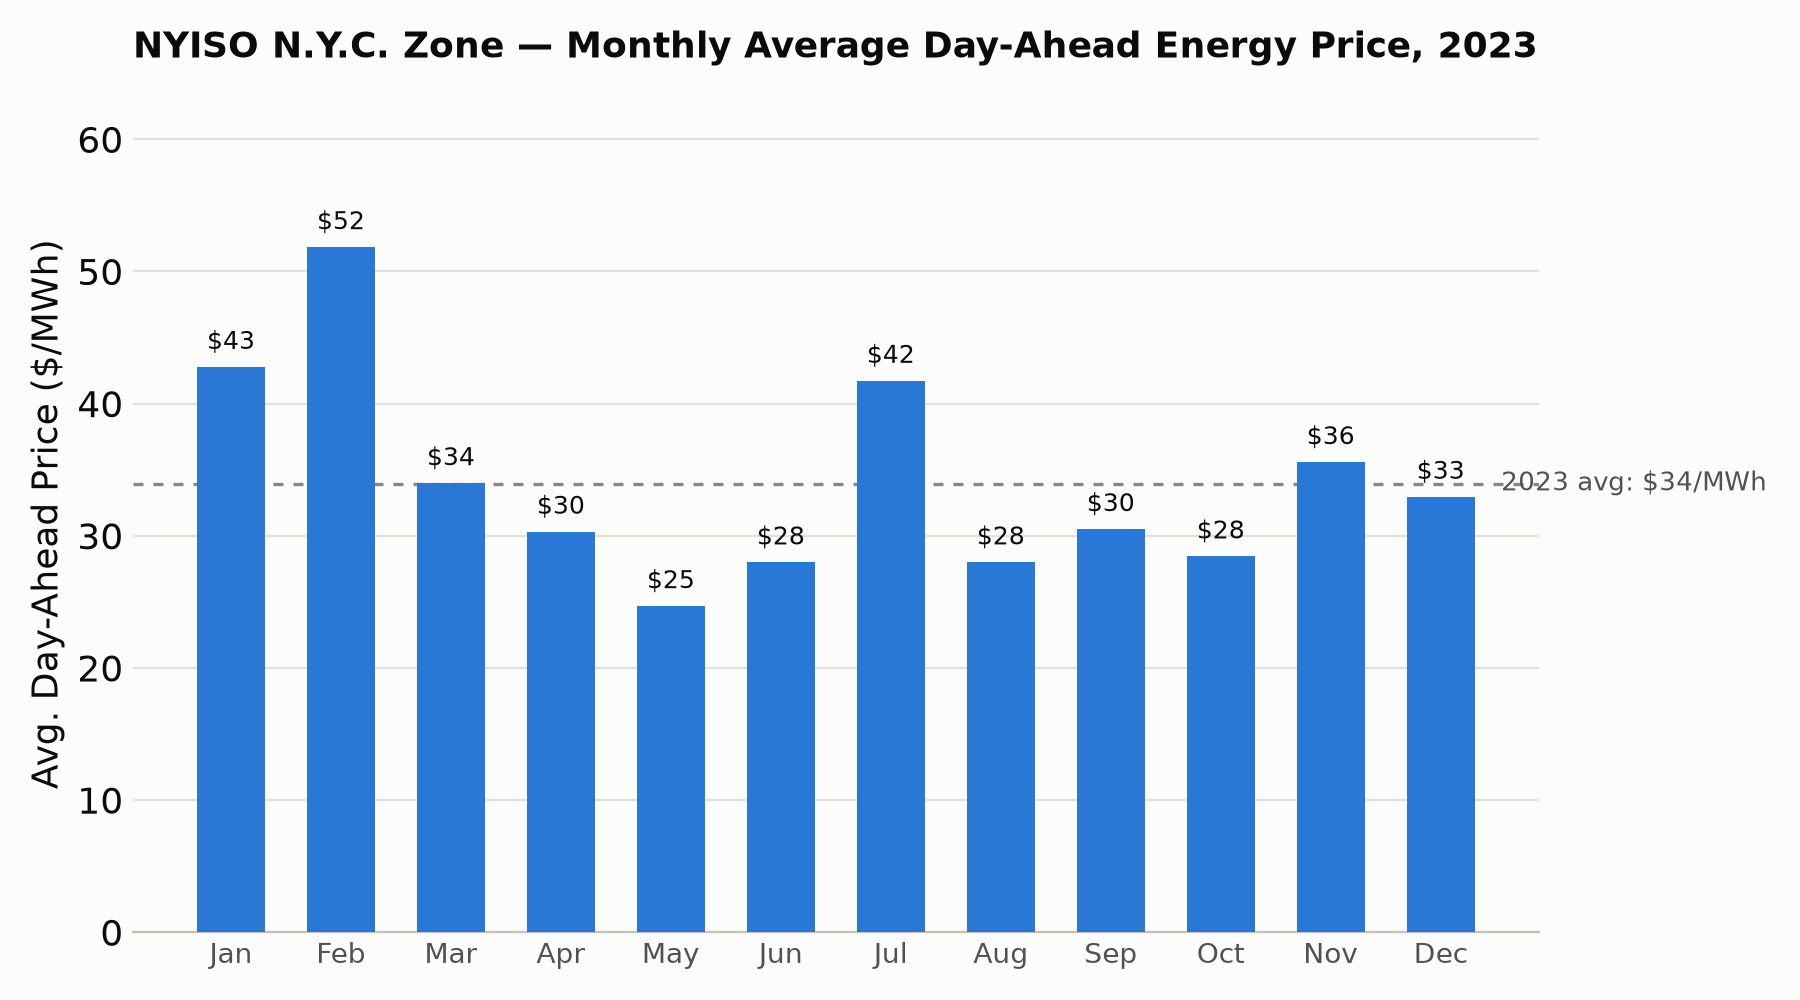
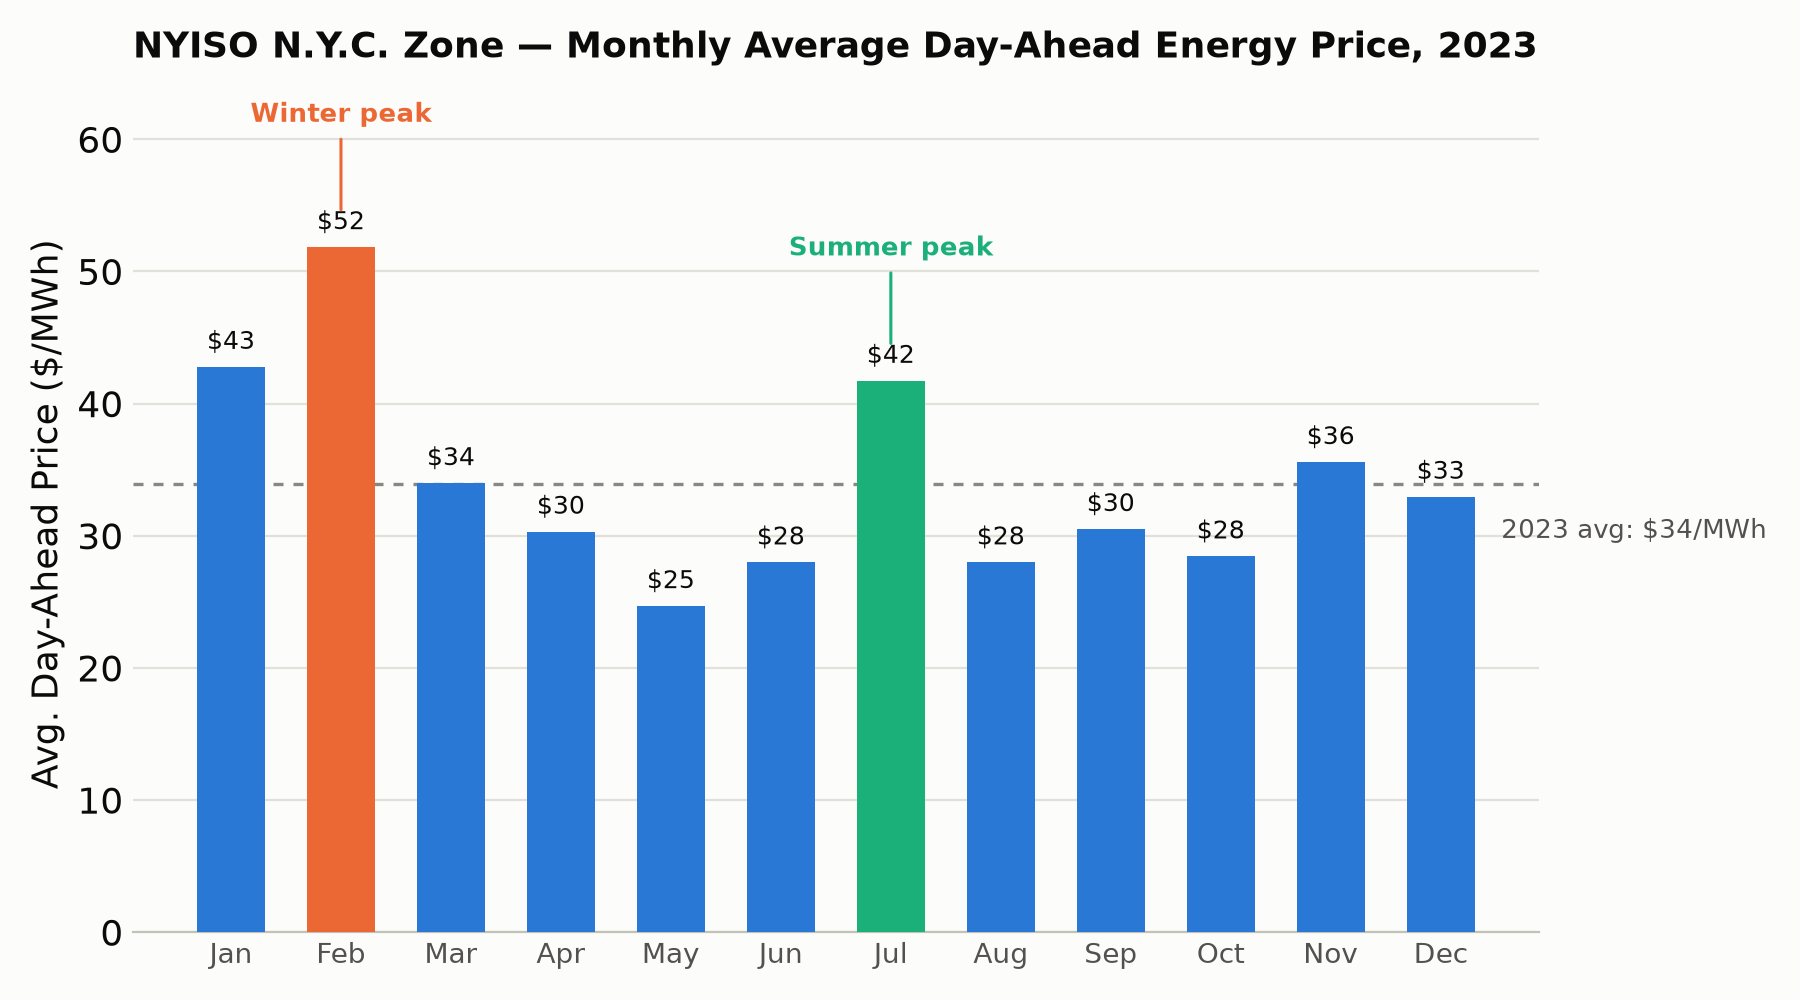
Highlight seasonal price peaks and add DA vs RT comparison chart
Highlight the winter (Feb) and summer (Jul) day-ahead price peaks on
the monthly chart, and add a new grouped-bar chart comparing monthly
average day-ahead vs. real-time NYISO NYC prices for 2023.

diff --git a/no_interconnection_limit/monthly_da_rt_price.py b/no_interconnection_limit/monthly_da_rt_price.py
@@ -1,0 +1,85 @@
+import csv
+from collections import defaultdict
+from datetime import datetime
+import numpy as np
+import matplotlib.pyplot as plt
+import matplotlib.ticker as mticker
+
+da_sums = defaultdict(float)
+rt_sums = defaultdict(float)
+counts = defaultdict(int)
+
+with open('hourly_data.csv') as f:
+    r = csv.DictReader(f)
+    for row in r:
+        ts = datetime.strptime(row['weather year EST hour beginning'], '%Y-%m-%d %H:%M:%S')
+        da_sums[ts.month] += float(row['NYISO (NYC Zone) Historical Day Ahead Energy Price ($/MWh)'])
+        rt_sums[ts.month] += float(row['NYISO (NYC Zone) Real Time Energy Price ($/MWh)'])
+        counts[ts.month] += 1
+
+months = ['Jan','Feb','Mar','Apr','May','Jun','Jul','Aug','Sep','Oct','Nov','Dec']
+da_avgs = [da_sums[m]/counts[m] for m in range(1, 13)]
+rt_avgs = [rt_sums[m]/counts[m] for m in range(1, 13)]
+da_annual = sum(da_sums.values()) / sum(counts.values())
+rt_annual = sum(rt_sums.values()) / sum(counts.values())
+
+# Write CSV
+with open('no_interconnection_limit/monthly_da_rt_price_2023.csv', 'w', newline='') as f:
+    w = csv.writer(f)
+    w.writerow(['Month', 'Avg NYISO NYC Day-Ahead Price ($/MWh)', 'Avg NYISO NYC Real-Time Price ($/MWh)'])
+    for m, da, rt in zip(months, da_avgs, rt_avgs):
+        w.writerow([m, round(da, 2), round(rt, 2)])
+    w.writerow(['Annual Average', round(da_annual, 2), round(rt_annual, 2)])
+
+# Chart — grouped bar, dataviz skill mark spec (light mode)
+BLUE = '#2a78d6'     # series 1: day-ahead
+ORANGE = '#eb6834'   # series 2: real-time
+INK_PRIMARY = '#0b0b0b'
+INK_SECONDARY = '#52514e'
+INK_MUTED = '#898781'
+GRIDLINE = '#e1e0d9'
+BASELINE = '#c3c2b7'
+SURFACE = '#fcfcfb'
+
+x = np.arange(12)
+width = 0.36
+
+fig, ax = plt.subplots(figsize=(10, 5.2), dpi=200)
+fig.patch.set_facecolor(SURFACE)
+ax.set_facecolor(SURFACE)
+
+bars_da = ax.bar(x - width/2, da_avgs, width, color=BLUE, zorder=3, label='Day-Ahead')
+bars_rt = ax.bar(x + width/2, rt_avgs, width, color=ORANGE, zorder=3, label='Real-Time')
+
+for rect, val in zip(bars_da, da_avgs):
+    ax.text(rect.get_x() + rect.get_width()/2, val + 0.9, f'${val:.0f}',
+            ha='center', va='bottom', fontsize=8, color=INK_PRIMARY)
+for rect, val in zip(bars_rt, rt_avgs):
+    ax.text(rect.get_x() + rect.get_width()/2, val + 0.9, f'${val:.0f}',
+            ha='center', va='bottom', fontsize=8, color=INK_PRIMARY)
+
+ax.set_ylabel('Avg. Energy Price ($/MWh)', color=INK_PRIMARY, fontsize=13)
+ax.set_title('NYISO N.Y.C. Zone — Monthly Average Day-Ahead vs. Real-Time Price, 2023',
+             color=INK_PRIMARY, fontsize=13, fontweight='bold', pad=14, loc='left')
+
+ax.set_xticks(x)
+ax.set_xticklabels(months)
+ax.set_ylim(0, max(da_avgs + rt_avgs) * 1.22)
+ax.yaxis.set_major_locator(mticker.MultipleLocator(10))
+ax.grid(axis='y', color=GRIDLINE, linewidth=0.8, zorder=0)
+ax.set_axisbelow(True)
+
+for spine in ['top', 'right', 'left']:
+    ax.spines[spine].set_visible(False)
+ax.spines['bottom'].set_color(BASELINE)
+ax.tick_params(axis='x', colors=INK_SECONDARY, length=0, labelsize=10)
+ax.tick_params(axis='y', colors=INK_PRIMARY, length=0, labelsize=13)
+
+legend = ax.legend(loc='upper right', frameon=False, fontsize=10, labelcolor=INK_SECONDARY)
+
+plt.tight_layout()
+plt.savefig('no_interconnection_limit/monthly_da_rt_price_2023.png', facecolor=SURFACE)
+print('Wrote no_interconnection_limit/monthly_da_rt_price_2023.csv and no_interconnection_limit/monthly_da_rt_price_2023.png')
+for m, da, rt in zip(months, da_avgs, rt_avgs):
+    print(f'{m}: DA ${da:.2f}/MWh | RT ${rt:.2f}/MWh')
+print(f'Annual: DA ${da_annual:.2f}/MWh | RT ${rt_annual:.2f}/MWh')

diff --git a/no_interconnection_limit/monthly_da_price.py b/no_interconnection_limit/monthly_da_price.py
@@ -27,8 +27,10 @@ with open('no_interconnection_limit/monthly_da_price_2023.csv', 'w', newline='')
         w.writerow([m, round(a, 2)])
     w.writerow(['Annual Average', round(annual_avg, 2)])
 
-# Chart — single-series bar, dataviz skill mark spec (light mode)
+# Chart — single-series bar w/ seasonal-peak highlight, dataviz skill mark spec (light mode)
 BLUE = '#2a78d6'
+ORANGE = '#eb6834'   # winter peak
+AQUA = '#1baf7a'     # summer peak
 INK_PRIMARY = '#0b0b0b'
 INK_SECONDARY = '#52514e'
 INK_MUTED = '#898781'
@@ -36,19 +38,37 @@ GRIDLINE = '#e1e0d9'
 BASELINE = '#c3c2b7'
 SURFACE = '#fcfcfb'
 
+winter_months = {12, 1, 2}
+summer_months = {6, 7, 8}
+winter_peak_idx = max((m for m in winter_months), key=lambda m: avgs[m - 1]) - 1
+summer_peak_idx = max((m for m in summer_months), key=lambda m: avgs[m - 1]) - 1
+
+colors = [BLUE] * 12
+colors[winter_peak_idx] = ORANGE
+colors[summer_peak_idx] = AQUA
+
 fig, ax = plt.subplots(figsize=(9, 5), dpi=200)
 fig.patch.set_facecolor(SURFACE)
 ax.set_facecolor(SURFACE)
 
-bars = ax.bar(months, avgs, color=BLUE, width=0.62, zorder=3)
+bars = ax.bar(months, avgs, color=colors, width=0.62, zorder=3)
 
 ax.axhline(annual_avg, color=INK_MUTED, linestyle=(0, (3, 3)), linewidth=1.2, zorder=2)
-ax.text(11.55, annual_avg, f'2023 avg: ${annual_avg:.0f}/MWh',
-        color=INK_SECONDARY, fontsize=9.5, va='center', ha='left')
+ax.text(11.55, annual_avg - 2.6, f'2023 avg: ${annual_avg:.0f}/MWh',
+        color=INK_SECONDARY, fontsize=9.5, va='top', ha='left')
 
 for rect, val in zip(bars, avgs):
     ax.text(rect.get_x() + rect.get_width()/2, val + 0.9, f'${val:.0f}',
             ha='center', va='bottom', fontsize=9, color=INK_PRIMARY)
+
+ax.annotate('Winter peak', xy=(winter_peak_idx, avgs[winter_peak_idx] + 2.4),
+            xytext=(winter_peak_idx, avgs[winter_peak_idx] + 9),
+            ha='center', va='bottom', fontsize=9.5, color=ORANGE, fontweight='bold',
+            arrowprops=dict(arrowstyle='-', color=ORANGE, lw=1.1))
+ax.annotate('Summer peak', xy=(summer_peak_idx, avgs[summer_peak_idx] + 2.4),
+            xytext=(summer_peak_idx, avgs[summer_peak_idx] + 9),
+            ha='center', va='bottom', fontsize=9.5, color=AQUA, fontweight='bold',
+            arrowprops=dict(arrowstyle='-', color=AQUA, lw=1.1))
 
 ax.set_ylabel('Avg. Day-Ahead Price ($/MWh)', color=INK_PRIMARY, fontsize=13)
 ax.set_title('NYISO N.Y.C. Zone — Monthly Average Day-Ahead Energy Price, 2023',
